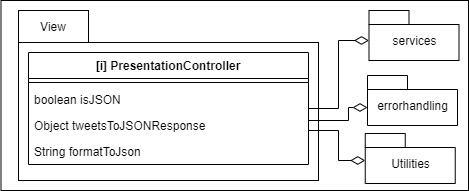
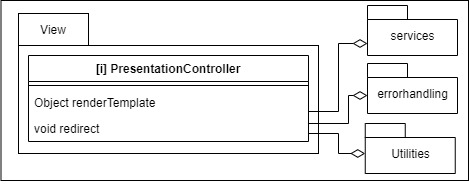
Update on Overleaf.

diff --git a/report/2-process-perspective.tex b/report/2-process-perspective.tex
@@ -1,40 +1,34 @@
 \section{Process's perspective} \label{section:Process perspective}
-\todo{Also reflect and describe what was the "DevOps" style of your work. For example, what did you do differently to previous development projects and how did it work?}
+%\todo{Also reflect and describe what was the "DevOps" style of your work. For example, what did you do differently to previous development projects and how did it work?}
 
 \subsection{Interactions and organization of developer team} 
-The developer team stays in contact through a Microsoft Teams with regular meetings every Monday and usually one or two additional "stand up" type meetings throughout the week to check in on progress. Microsoft Teams is also used for links and resources as well as communication regarding individual tasks.
-
-Major issues are typically done with everyone present, if they require important decisions, otherwise work is usually done individually or in groups of two or three people - depending on the complexity of the task ahead.
+The team used Microsoft Teams for communication with regular meetings every Monday and usually one or two additional "stand up" type meetings throughout the week to check in on progress. Microsoft Teams is also used for links and resources as well as communication regarding individual tasks. Major issues are typically done with everyone present, if they require important decisions, otherwise work is usually done individually or in groups of two or three people - depending on the complexity of the task at hand.
 
 \subsection{CI/CD chain} 
-For CI, we initially attempted to use TravisCI, as everyone in the group had encountered it. TravisCI was abandoned due to an overwhelming number of issues with files and folders not being added properly, in addition to secret handling being bothersome.
-
-We instead settled for using GitHub Actions, which had all the features we wanted (triggers, stages, customizable images and non-local storage of secrets).
+The initial CI/CD was set up using TravisCI, as everyone in the team had encountered it during the lectures. TravisCI was abandoned due to an overwhelming number of issues with files and folders not being added properly, in addition to secret handling being bothersome. We instead settled for using GitHub Actions, which had all the features we wanted (triggers, stages, customizable images and non-local storage of secrets).
 
 The following workflows are set up:
 \begin{itemize}
-    \item \textbf{Java CI with Maven}: Invoked on all pushes to the repository. It builds the Maven project using $mvn package$ and runs all tests, including integration tests on a remote test database. The workflow utilizes caching to ensure that Maven dependencies are not fetched on consecutive runs. 
-    \item \textbf{Staging deployment}: Invoked on all pushes to the main branch. This workflow logs into DockerHub, builds and pushes the Minitwit docker image with database secrets. Afterwards it SSHs to the primary Minitwit server and fetches the Minitwit config files, including the docker-compose file. Immediately after all containers are torn down and rebuild using the newly pushed Minitwit image from DockerHub. Finally, a release is created with new commits linked and the backup server is redeployed similarly. In the downtime of the primary server the backup server obtains the floating IP and vice versa. 
-    \item \textbf{Backup DB}: Once a day GitHub action SSH into the primary server and creates a database dump with time and date in the name. Created to minimize potential data loss.
-    \item \textbf{Build LaTeX document}: When a push to develop occurs, the LaTeX files are fetched from the report folder and a pdf document is built. The LaTeX files are manually fetched from a remote Overleaf repository, as Overleaf facilitates the groups collaborative writing. 
+    \item \textbf{Java CI with Maven}: Invoked on all pushes to the repository. It builds the Maven project using $mvn\_package$ and runs all tests, including integration tests on a remote test database. The workflow utilizes caching to ensure that Maven dependencies are not fetched on consecutive runs. 
+    \item \textbf{Staging deployment}: Invoked on all pushes to the main branch. This workflow logs into DockerHub, builds and pushes the Minitwit docker image with database secrets. Afterwards it SSHs into the primary Minitwit server and fetches the Minitwit config files, including the docker-compose file. Immediately after, all containers are torn down and rebuild using the newly pushed Minitwit image from DockerHub. Finally, a release is created with new commits linked and the backup server is redeployed similarly. In the downtime of the primary server, the backup server obtains the floating IP and vice versa. 
+    \item \textbf{Backup DB}: Once a day a GitHub action SSH into the primary server and creates a database dump with time and date in the name. Created to minimize potential data loss.
+    \item \textbf{Build LaTeX document}: When a push to develop occurs, the LaTeX files are fetched from the report folder and a pdf document is built. The LaTeX files are manually fetched from a remote Overleaf repository, as Overleaf facilitates the teams collaborative writing. 
     \item \textbf{SonarCloud}: Official SonarCloud GitHub action that builds and analyzes the Java project using \textit{mvn\_verify}. 
 \end{itemize}
-For secret handling we used Githubs Encrypted secrets. This ensured that no potentially harmful information was exposed in the GitHub Action workflows. Among secrets were DB connection strings, DigitalOcean access tokens, DockerHub credentials and SSH keys together with host information.
+For secret handling we used GitHub's Encrypted secrets. This ensured that no potentially harmful information was exposed in the GitHub Action workflows. Among secrets were DB connection strings, DigitalOcean access tokens, DockerHub credentials and SSH keys together with host information\footnote{\url{https://github.com/DevOps2021-gb/devops2021/wiki/CI-CD-Description:--Github-Actions}}.
 
 
 \subsection{Organization of repository}
-The code is organized using a mono repository setup, having all code and scripts necessary to run the application gathered in a single repository. The team deemed this sufficient as everything located in the repository (apart from local dockerfiles and simulator) is involved in the deployment process and the code-base is small and simple enough that having multiple repositories would only increase complexity. 
+The code is organized using a mono repository setup, having all code and scripts necessary to run the application gathered in a single repository. The team deemed this sufficient as everything located in the repository (apart from local dockerfiles and simulator) is involved in the deployment process and the code-base is small and simple enough that having multiple repositories would only introduce unnecessary complexity
 
 \subsection{Applied branching strategy and development process} 
-The main branch is used for the latest release, meaning that the code on this branch matches code found in production.
+The main branch is used for the latest release, meaning that the code on this branch matches code found in production. The develop branch facilitated the main development of the project and should always contain a working build. From develop each team member could create feature branches (\texttt{feature/logging} for example) and then merge back into develop once tested and approved. Develop could be subject to hotfixes, which would then be merged into main. The full process can be seen in \underline{\href{https://github.com/DevOps2021-gb/devops2021/blob/main/CONTRIBUTE.md}{CONTRIBUTE.md}}.
 
-The develop branch facilitated the main development of the project and should always contain a working build. From develop each group member could create feature branches (\texttt{feature/logging} for example) and then merge back into develop once tested and approved. Develop could be subject to hotfixes, which would then be merged into main. The full process can be seen in \underline{\href{https://github.com/DevOps2021-gb/devops2021/blob/main/CONTRIBUTE.md}{CONTRIBUTE.md}}.
-
-The group used GitHub issues to track development progress, labeling them as needed with tags such as \textit{bug}, \textit{documentation}, \textit{feature} and \textit{enhancement}. The status of each issue and the issues to focus on each week was tracked using GitHub's kanban board, having columns \textit{Todo}, \textit{This sprint}, \textit{In progress} and \textit{Done}.
+The team used GitHub issues to track development progress, labeling them as needed with tags such as \textit{bug}, \textit{documentation}, \textit{feature} and \textit{enhancement}. The status of each issue and the issues to focus on each week was tracked using GitHub's kanban board, having columns \textit{Todo}, \textit{This sprint}, \textit{In progress} and \textit{Done}.
 
 \subsection{Monitoring} 
 \label{subsection:monitoring}
-Monitoring is set up using Prometheus and Grafana, where Prometheus is used to subtract data from the system, at the data is displayed on dashboards in Grafana.
+Monitoring is set up using Prometheus and Grafana, where Prometheus is used to extract data from the system, and the data is displayed on dashboards in Grafana.
 
 The newest data points are collected and stored using \texttt{MaintenanceService.java}. Each data type is stored in Prometheus library's Gauge or Counter objects, which is registered with a unique name and help description. Data gathered is: the current CPU load, database information and response-time of each endpoint. The data is collected with an interval of 30 seconds. The configuration of Prometheus is found in \texttt{prometheus.yml}\footnote{\url{https://github.com/DevOps2021-gb/devops2021/blob/main/prometheus.yml}}.
 
@@ -48,7 +42,7 @@ On \textit{Grafana} are three dashboards:
         \label{fig:grafana_db}
     \end{figure}
     
-    \item \textbf{Minitwit request}\footnote{\url{http://144.126.244.138:3000/dashboard/db/minitwit-requests?orgId=1}} shows response times for requests to the system.
+    \item \textbf{Minitwit request} shows response times for requests to the system.
     \begin{figure}[H]
         \centering
         \includegraphics[width=1.0\textwidth]{images/Grafana_minitwit_requests.JPG}
@@ -56,7 +50,7 @@ On \textit{Grafana} are three dashboards:
         \label{fig:grafana_requests}
     \end{figure}
     
-    \item \textbf{Prometheus Stats}\footnote{\url{http://144.126.244.138:3000/dashboard/db/prometheus-stats?orgId=1}} shows the uptime of the system. The time is reset when the system is redeployed or if it goes down.
+    \item \textbf{Prometheus Stats} shows the system uptime.
     \begin{figure}[H]
         \centering
         \includegraphics[width=1.0\textwidth]{images/Grafana_prometheous_stats.JPG}
@@ -68,29 +62,27 @@ The graphs in the dashboards show minimum, maximum and average of the plotted da
 
 \subsection{Logging}
 \label{subsection:logging}
-Logging is set up as an EFK stack. Initially only exceptions were logged but during a test of the logging only one of three introduced bugs was detected, implying that the logging was insufficient. More detailed logging was introduced, now also logging requests and their payloads with the exception of passwords \todo{hashes eller rigtige?} which was removed. This change made all three kinds of bug show up in the log. The description of the experiment can be found in the wiki entry \underline{\href{https://github.com/DevOps2021-gb/devops2021/wiki/Catch-a-Bug-By-Looking-at-the-Logs}{Catch a Bug By Looking at the Logs}}.
+Logging is set up as an EFK stack. Initially only exceptions were logged but during a test of the logging only one of three introduced bugs was detected, implying that the logging was insufficient. More detailed logging was introduced, now also logging requests and their payloads - except plaintext passwords, which were removed. This change made all three kinds of bugs show up in the log. The description of the experiment can be found in the wiki entry \underline{\href{https://github.com/DevOps2021-gb/devops2021/wiki/Catch-a-Bug-By-Looking-at-the-Logs}{Catch a Bug By Looking at the Logs}}.
 
-Logging is done using Java's Logger object and through our helper-functions each print is extended with a classification/level. The print statements also get a code to easier filter actual warnings rather than messages containing the word 'warning'. The class printing is also added to the message for traceability
+Logging is done using Java's Logger object and through our helper-functions each print is extended with a classification/level. The print statements also get a code to easier filter actual warnings rather than messages containing the word 'warning'. The class printing is also added to the message for traceability.
 
-These measures allowed us to create filters for Grafana dashboards such that we could see all messages, all warnings and all of the different kinds of exceptions that could be thrown. 
-\todo{log volumes, traces, exceptions}
+These measures allowed us to create filters for Kibana dashboards such that we could see all messages, all warnings and all of the different kinds of exceptions that could be thrown. A filebeat-elasticsearch index is created once a day for logs and are persistent through Docker volumes. 
 
 
 \subsection{Security assessment}
-In order to assess the security of the system two tasks were undertaken. A risk assessment was conducted and penetration testing was performed.
-
-For risk assessment three assets to protect was identified: the web application, the database and the logging. The following potential threats were assessed:
+In order to assess the security of the system two tasks were undertaken. A risk assessment was conducted and penetration testing was performed. For risk assessment three assets to protect was identified: the web application, the database and the logging. The following potential threats were assessed:
 \begin{itemize}
     \item Web application: SQL injection, cross site scripting, DOS, brute forcing login and insufficient logging and monitoring.
     \item Database: SQL injection through web application/API and lost authentication secrets.
     \item Logging: DOS attacks, brute forcing login page.
 \end{itemize}
 
-A risk analysis table was constructed and 11 scenarios and seven issues were identified and graded. For most of the scenarios actions had already been taken to prevent or mitigate the risks. For a few other scenarios possible actions were identified but not taken as they were not deemed necessary. The full details of the risks assessment can be found under \underline{\href{https://github.com/DevOps2021-gb/devops2021/wiki/Risk-assesment}{Risk Assessment}}.
+\noindent
+A risk analysis table was constructed and 11 scenarios and seven issues were identified and graded. For most of the scenarios actions had already been taken to prevent or mitigate the risks. For a few other scenarios possible actions were identified but not taken as they were deemed unnecessary. The full details of the risks assessment can be found under \underline{\href{https://github.com/DevOps2021-gb/devops2021/wiki/Risk-assesment}{Risk Assessment}}.
 
-For the penetration testing three tools were used: \textit{nmap}, \textit{Metasploit} and \textit{SQL map}. In each case no vulnerabilities were found. In addition to using \textit{SQL map} cross-site scripting was also tested manually in multiple browsers by trying to use script-tags in the message input field on the website. In all tested browsers the script tag was not rendered. Lastly, it was checked that traces of the tools run showed up in the logging. The full details of the penetration test can be seen in \underline{\href{https://github.com/DevOps2021-gb/devops2021/wiki/Penetration-testing}{Penetration testing}}.
+For the penetration testing three tools were used: \textit{nmap}, \textit{Metasploit} and \textit{SQL map}. In each case no vulnerabilities were found. In addition to using \textit{SQL map}, cross-site scripting was also tested manually in multiple browsers, by trying to use script-tags in the message input field on the website. In all tested browsers the script tag was not rendered. Lastly, we checked that traces of the tools used showed up in the logging. The full details of the penetration test can be seen in \underline{\href{https://github.com/DevOps2021-gb/devops2021/wiki/Penetration-testing}{Penetration testing}}.
 
 Another group was supposed to perform a white hat attack on the system. Nothing was heard from the group and it must be assumed that they found nothing to report.% or tested another group by mistake.
 
 \subsection{Scaling and load balancing}\label{subsection:scaling} 
-The group first implemented the traditional Heartbeat with Floating IPs on DigitalOcean \footnote{\url{https://www.digitalocean.com/community/tutorials/how-to-create-a-high-availability-setup-with-heartbeat-and-floating-ips-on-ubuntu-16-04}}. Unfortunately this would only ensure that floating IP were switched to the backup and back when the entire machine would go down. We did not find a configuration of Heartbeat that would allow us to listen on a specific port, and switch floating IP's when the Minitwit service was down. We therefore decided to write two shell scripts to gain the sought after functionality. The first script\footnote{\url{https://github.com/DevOps2021-gb/devops2021/tree/main/heartbeat}} continuously runs on the secondary droplet checking the availability of the primary droplet, reassigning the floating-ip to itself should the application on the primary droplet go down. The second script would run on the primary droplet to reassign the floating IP to itself when it has restarted.
+The team chose to implement a high-availability setup in terms of a primary and a secondary droplet. First the traditional Heartbeat with Floating IPs on DigitalOcean was implemented\footnote{\url{https://www.digitalocean.com/community/tutorials/how-to-create-a-high-availability-setup-with-heartbeat-and-floating-ips-on-ubuntu-16-04}}. Unfortunately this would only ensure that floating IP were switched to the backup and back again, when the entire machine would go down. We did not find a configuration of Heartbeat that would allow us to listen on a specific port, and switch floating IP's when the Minitwit service was down. We therefore decided to write two shell scripts to gain the sought after functionality. The first script\footnote{\url{https://github.com/DevOps2021-gb/devops2021/tree/main/heartbeat}} continuously runs on the secondary droplet checking the availability of the primary droplet, reassigning the floating-ip to itself should the application on the primary droplet go down. The second script would run on the primary droplet to reassign the floating IP to itself when it has restarted.

diff --git a/report/1-systems-perspective.tex b/report/1-systems-perspective.tex
@@ -1,38 +1,42 @@
 \section{System's perspective} \label{section:System perspective}
-\todo{gå igennem alle ugers "afleveringer" og tjek vi har argumenteret for alt}
 \subsection{Design}
 The Minitwit application is a simple application allowing users to post messages, see messages posted by others and follow other users in order to specifically see what they post.
 
-The application is implemented using Java with Spark and a MySQL database. Java was chosen since it is platform independent and a popular language, meaning that extensive documentation is available and it would be easy for a future team to inherit the code. Spark was chosen as it is similar to Flask which was used for the inherited Minitwit system and since it has a reasonable learning curve and is straight forward to use for an application of the size of Minitwit. The frontend consist of html templates connected with the backend using the template engine Jinjava, chosen to mimic the python Minitwit with minimal effort. 
+The application is implemented in Java with the Spark Framework and a MySQL database. Java was chosen since it is platform independent and a popular language, meaning that extensive documentation is available and it would be easy for a future team to inherit the code. Spark was chosen as it is a lightweight framework like Flask, which was used for the inherited Minitwit system. Spark also has a reasonable learning curve and is straight forward to use for an application the size of Minitwit. The frontend consist of HTML templates connected to the backend using the template engine Jinjava, chosen to mimic the python Minitwit with little to no changes. 
 
-MySQL was chosen for database since the relational model fits the system data well. \textcolor{red}{Why is it better than eg SQLite?}. \todo{Indexes?}\todo{Skal vi have design af db tables? eventuelt som et billede/screenshot? Ja det ville være godt med en kort beskrivelse af tables og model}
-
-The ORM tool used is NORM, which is a lightweight ORM that does not require the complex markdown files that tools like Hibernate or JPA introduce. It is suitable for smaller projects with simple models and therefore for Minitwit.
-
-Hibernate was implemented as a test to see if it would be a better fit since it is more complex but it turned out that the tool did not deliver on its promises, meaning that it only introduced more unnecessary complexity without adding any benefits. It furthermore complicated database joins that are needed for Minitwit. We decided to stick with NORM.
-
-The application is hosted on DigitalOcean. Measures taken to ensure availability and for maintenance purposes, monitoring with Prometheus and Grafana and logging using an ELK-stack, are described in further sections.
-
-
-\subsection{Architecture}
-
-\hyperref[fig:componentDiagram]{Figure \ref{fig:componentDiagram}} shows the different components of the application.
-
-\todo{TODO: MISSING TEXT ON EACH CONNECTOR.}
+MySQL was chosen for persistent data storage due to its high performance, wide adoption rate, indices and familiarity to the team. Furthermore, the relational model fits the Minitwit data well and \hyperref[fig:classDiagramModel]{figure \ref{fig:databaseDiagram}} depicts the design of the database.
 \begin{figure}[H]
     \centering
-    \hspace*{-0.5in}
-    \includegraphics[width=1.2\textwidth]{images/Diagrams-Development_view_component_diagram.jpg}
-    \caption{Component diagram, development view}
+    \includegraphics[width=1\textwidth]{report/images/Diagrams-DB.png}
+    \caption{Entity relation diagram and diagram of model presenting the design of the database tables.}
+    \label{fig:databaseDiagram}
+\end{figure} 
+\vspace{3mm}
+
+\noindent
+The ORM tool used is NORM, which is a lightweight ORM that does not require the complex markdown files that tools like Hibernate or JPA introduce. It is suitable for smaller projects with simple models and therefore fulfills the requirements of the Minitwit application. As an ORM tool NORM is not perfect as some queries still requires writing sql, like when joining or adding indexes.
+
+Hibernate was implemented on branch feature/Hibernate\footnote{\url{https://github.com/DevOps2021-gb/devops2021/tree/feature/Hibernate}} as a test to see if it would be a better fit. Unfortunately, it turned out that the tool did not deliver on its promises and actually did not support some union queries, meaning that it only introduced more unnecessary complexity without adding any benefits. Furthermore, it complicated database joins which are needed for Minitwit. We therefore decided to stick with NORM.
+
+The application is hosted on DigitalOcean. Measures taken to ensure availability and maintenance, monitoring with Prometheus and Grafana and logging using an EFK-stack, are described later.
+
+\newpage
+\subsection{Architecture}
+
+\hyperref[fig:componentDiagram]{Figure \ref{fig:componentDiagram}} shows the different components of the application and how they are connected.
+\begin{figure}[H]
+    \centering
+    \includegraphics[width=1\textwidth]{images/Diagrams-Development_view_component_diagram.jpg}
+    \caption{Component diagram of the entire Minitwit application, development view}
     \label{fig:componentDiagram}
 \end{figure}
 
 \subsubsection{Main}
-Main is the system's entrance point and allows specification of which database to use. Main starts monitoring and logging services and defines the number of threads to use. \hyperref[fig:classDiagramMain]{Figure \ref{fig:classDiagramMain}} presents a class diagram. \todo{stemmer det her diagram overens med connectorne i figur 1 egentlig?}
+Main is the system entry point and allows specification of which database to use. Main starts monitoring and logging services and defines the number of threads to use. \hyperref[fig:classDiagramMain]{Figure \ref{fig:classDiagramMain}} presents a class diagram. 
 \begin{figure}[H]
     \centering
-    \includegraphics[width=0.7\textwidth]{images/class_diagram_main.jpg}
-    \caption{Class diagram main, logical view}
+    \includegraphics[width=0.5\textwidth]{images/class_diagram_main.jpg}
+    \caption{Class diagram for main, logical view}
     \label{fig:classDiagramMain}
 \end{figure}
 
@@ -44,32 +48,31 @@ Utilities, shown in \hyperref[fig:classDiagramUtilities]{figure \ref{fig:classDi
     \caption{Class diagram utilities, logical view}
     \label{fig:classDiagramUtilities}
 \end{figure}
-\todo{Eventuelt flyt de tre sidste klasser ned på en ny linje, så billedet kan gøres bredere = teksten nemmere at læse}
 
 \subsubsection{Error handling}
 Error handling contains objects used to wrap results of computations that can result in exceptions, allowing for better error handling and reduction of try-catch-statements. A class diagram is presented in  \hyperref[fig:classDiagramErrorhandling]{figure \ref{fig:classDiagramErrorhandling}}.
 \begin{figure}[H]
     \centering
-    \includegraphics[width=1.0\textwidth]{images/class_diagram_errorhandling.jpg}
-    \caption{Class diagram errorhandling, logical view}
+    \includegraphics[width=0.8\textwidth]{images/class_diagram_errorhandling.jpg}
+    \caption{Class diagram for Error handling, logical view}
     \label{fig:classDiagramErrorhandling}
 \end{figure}
 
 \subsubsection{Controllers}
-Controllers handles the endpoints the application provides by mapping post and get request to appropriate methods. The class diagram can be seen in \hyperref[fig:classDiagramControllers]{figure \ref{fig:classDiagramControllers}}.
+Controllers handles the API endpoints the application provides by mapping post and get request to appropriate methods. The class diagram can be seen in \hyperref[fig:classDiagramControllers]{figure \ref{fig:classDiagramControllers}}.
 \begin{figure}[H]
     \centering
     \includegraphics[width=1.0\textwidth]{images/class_diagram_controllers.jpg}
-    \caption{Class diagram controllers, logical view}
+    \caption{Class diagram for controllers, logical view}
     \label{fig:classDiagramControllers}
 \end{figure}
 
 \subsubsection{View}
-View contains code for rendering and redirecting between pages of Minitwit. Pages are rendered html-templates. The class diagram can be seen in \hyperref[fig:classDiagramView]{figure \ref{fig:classDiagramView}}.\todo{Er det her ikke de forkerte metoder i diagrammet? Skal det ikke være renderTemplate og redirect?}
+View contains code for rendering and redirecting between pages of Minitwit. Pages are rendered html-templates. The class diagram can be seen in \hyperref[fig:classDiagramView]{figure \ref{fig:classDiagramView}}.
 \begin{figure}[H]
     \centering
-    \includegraphics[width=0.8\textwidth]{images/class_diagram_view.jpg}
-    \caption{Class diagram view, logical view}
+    \includegraphics[width=0.6\textwidth]{images/class_diagram_view.jpg}
+    \caption{Class diagram for View, logical view}
     \label{fig:classDiagramView}
 \end{figure}
 
@@ -79,8 +82,8 @@ Services includes functions executing requests and responses along with code for
 Class diagram presented in \hyperref[fig:classDiagramServices]{figure \ref{fig:classDiagramServices}}.
  \begin{figure}[H]
     \centering
-    \hspace*{-1.5in}
-    \includegraphics[width=1.6\textwidth]{images/class_diagram_services.jpg}
+    \hspace*{-1.1in}
+    \includegraphics[width=1.35\textwidth]{images/class_diagram_services.jpg}
     \caption{Class diagram services, logical view}
     \label{fig:classDiagramServices}
 \end{figure}
@@ -89,23 +92,23 @@ Class diagram presented in \hyperref[fig:classDiagramServices]{figure \ref{fig:c
 Repository includes code for starting the database and executing queries needed by the services. Class diagram can be seen in \hyperref[fig:classDiagramRepository]{figure \ref{fig:classDiagramRepository}}.
 \begin{figure}[H]
     \centering
-    \hspace*{-1.3in}
-    \includegraphics[width=1.55\textwidth]{images/class_diagram_repository.jpg}
+    \hspace*{-0.5in}
+    \includegraphics[scale=0.4]{images/class_diagram_repository.jpg}
     \caption{Class diagram repositories, logical view}
     \label{fig:classDiagramRepository}
 \end{figure}
 
 \subsubsection{Model}
-Model contains classes used by NORM as templates for creating database entities. Class diagram can be seen in \hyperref[fig:classDiagramModel]{figure \ref{fig:classDiagramModel}}.\todo{forkert diagram}
+Model contains classes used by NORM as templates for creating database entities. Class diagram can be seen in \hyperref[fig:classDiagramModel]{figure \ref{fig:classDiagramModel}}.
 \begin{figure}[H]
     \centering
-    \includegraphics[width=0.7\textwidth]{images/class_diagram_model.jpg}
-    \caption{Class diagram model, logical view}
+    \includegraphics[scale=0.5]{images/class_diagram_model.jpg}
+    \caption{On the left is a class diagram for Model, logical view. On the right is an entity relationship diagram.}
     \label{fig:classDiagramModel}
 \end{figure}
 
 \subsubsection{Benchmark}
-Benchmark is not in deployment and contains code to be run locally only. It is used for measuring the speed of different repository operations and was used to argue for speedups related to extensions to the database, e.g. when indexes was added.
+Benchmark is not in deployment and contains code to be run locally only. It is used for measuring the speed of different repository operations and was used to argue for speedups related to extensions to the database, e.g. when indices was added.
 
 
 \subsection{Dependencies }
@@ -117,7 +120,7 @@ Benchmark is not in deployment and contains code to be run locally only. It is u
     \item \textbf{MySQL}: Relational database.% Chosen based on familiarity to team members and it's renowned reliability for how long it's been around.  
     \item \textbf{JUnit 5}: Most popular unit-testing framework.
     \item \textbf{Mockito}: Mocking framework with a simple API.
-    \item \textbf{SLF4J}: Logging Facade for ELK stack. 
+    \item \textbf{SLF4J}: Logging Facade for EFK stack. 
     \item \textbf{prometheus}: Prometheus JVM Client for introducing instrumenting such as gauges, counters and other metrics.
     \item \textbf{org.json}: Toolkit for JSON.
 \end{itemize}
@@ -125,36 +128,34 @@ Benchmark is not in deployment and contains code to be run locally only. It is u
 \begin{itemize}
     \item \textbf{Maven}: Build automation tool used to manage Java project and its dependencies.
     \item \textbf{PMD}: Code analyzer, used to find common programming flaws like unused variables, unnecessary object creation etc. 
-    \item \textbf{Forbidden API Checker}: Static code analysis that parses java byte code to find invocations of dangerous and deprecated method/class/fields signatures. 
+    \item \textbf{Forbidden API Checker}: Static code analysis that parses java byte code to find invocations of dangerous and deprecated method/class/field signatures. 
     \item \textbf{SonarCloud}: Bug, Vulnerability and Code Smell detection tool with issue contextualization and remediation guidance. Used in our CI for Continuous code inspection.\footnote{\url{https://github.com/DevOps2021-gb/devops2021/wiki/Static-Analysis-Tools}}
 \end{itemize}
 
-\url{www.licensediscovery.io} was used to analyze Maven dependency licenses. As seen in figure \ref{fig:licenceDep} the strictest license that the majority of dependencies is ruled by is the Apache Software License Version 2. This is the license that we therefore went with.\footnote{\url{https://github.com/DevOps2021-gb/devops2021/blob/main/LICENSE.md}} 
-\todo{Er det begrundelse nok? \textcolor{yellow}{kan ikke komme på mere at sige om det i hvert fald}}
-\begin{figure}[!htb]
+\subsection{License}
+\url{www.licensediscovery.io} was used to analyze Maven dependency licenses. As seen in figure \ref{fig:licenceDep} the strictest license that the majority of dependencies are ruled by is the Apache Software License Version 2. This is the license that we therefore went with.\footnote{\url{https://github.com/DevOps2021-gb/devops2021/blob/main/LICENSE.md}}
+\begin{figure}[H]
     \centering
-    \includegraphics[scale=0.2]{images/LicenceDependencies.png}
+    \includegraphics[scale=0.65]{report/images/dependency_licences.png}
     \caption{Overview of dependency licenses. Sub-dependencies included.}
     \label{fig:licenceDep}
 \end{figure}
-\todo{ryk billede i bilag eller til repository, det er umuligt at se hvad der står}
-
 \subsection{Important interactions of subsystem}
 \hyperref[fig:componentDiagram]{Figure \ref{fig:communicationDiagram}} shows the interaction between different parts of the system and between users and system.
 
 Code is stored on GitHub, which developers pull and push to during development. When running the code locally, a local database should be used, called \texttt{minitwit}, which runs on port 3306 localhost with password and username "root". The repository contains a docker compose file for running the Minitwit stack locally which includes an empty MySQL database container.
 
-GitHub actions analyzes the files pushed using SonarCloud. GitHub Actions deploys to a docker image and pulls down official Prometheus, Grafana, Filebeat, ElasticSearch, Kibana and Nginx images.
+GitHub actions analyze the files pushed using SonarCloud. GitHub Actions deploys to a docker image and pulls down official Prometheus, Grafana, Filebeat, ElasticSearch, Kibana and Nginx images.
 
-The images are all deployed on two DigitalOcean droplets, where the Minitwit containers utilize a remote DigitalOcean database. One droplet is the primary server and uses a floating IP. The other droplet is regarded as a backup and regularly checks through http whether the Minitwit service is responding successfully. If not, the backup droplet obtains the floating IP until the primary is responding as expected.\todo{skal vi have deployment diagram????}
+The images are all deployed on two DigitalOcean droplets, where the Minitwit containers utilize a remote DigitalOcean database. One droplet is the primary server and uses a floating IP. The other droplet is regarded as a backup and regularly checks through http whether the Minitwit service is responding successfully. If not, the backup droplet obtains the floating IP until the primary is responding as expected. 
 
-The Kibana and Grafana images are for viewing maintenance and logging and the remaining four are for the ELK logging stack.
+The Kibana and Grafana images are for viewing monitoring and logging and the remaining four are for the EFK logging stack.
 
 \begin{figure}[H]
     \centering
-    \hspace*{-1.5in}
-    \includegraphics[width=1.6\textwidth]{images/Diagrams-Process_view_communication_diagram.jpg}
-    \caption{Communication diagram, process view}
+    \hspace*{-0.7in}
+    \includegraphics[scale=0.3]{images/Diagrams-Physical_view_deployment_diagram.jpg}
+    \caption{Deployment diagram, physical view}
     \label{fig:communicationDiagram}
 \end{figure}
 
@@ -168,4 +169,4 @@ The system currently has a single known bug regarding the scaling of the system,
     \item 0.0\% code duplication and 0 duplicated blocks
 \end{itemize}
 
-Out of the 63 code smells only 11 are major, critical or blockers and all 63 has been assessed as issues that can ignored.
+Out of the 63 code smells only 11 are major, critical or blockers and all 63 has been assessed as issues that can be ignored.

diff --git a/report/3-lessons-learned.tex b/report/3-lessons-learned.tex
@@ -1,19 +1,30 @@
 \section{Lessons learned perspective} \label{section:Lessons learned perspective}
 \subsection{Issues: evolution and refactoring}
 Initially, the inherited code was translated to a basic Java application using the Java Spark framework\footnote{\url{https://github.com/DevOps2021-gb/devops2021/issues/152}}. At the time, this code was very bare-bones with all logic and endpoints located in a single file. As time went on, the team refactored the application to make use of a more well structured system architecture (controller-, service-, persistance-layer)\footnote{\url{https://github.com/DevOps2021-gb/devops2021/tree/ae6cd48a06fde2a5c403056b33895b7589cb039d}} eventually adding dependency injection and mock testing\footnote{\url{https://github.com/DevOps2021-gb/devops2021/commit/07914442a09e204f0be2687fe8e5b9bd07799ee4}} to the application. 
-During development one of the endpoint's response codes was changed which led to a massive increase in errors the simulator reported, which could have been avoided if a fraction of the provided \texttt{minitwit\_simulator.py} file had been a part of the test pipeline.
+During development one of the endpoint's response code was changed which led to a massive increase in errors the simulator reported, which could have been avoided if a fraction of the provided \texttt{minitwit\_simulator.py} file had been a part of the test pipeline.
 
 \subsection{Issues: operation}
 \label{issues-operation}
-The self-made heartbeat protocol had some issues related to Spark. An issue\footnote{\url{https://github.com/DevOps2021-gb/devops2021/issues/171}} was created trying to remedy this but was never finished, rendering the availability part of the system unstable as the backup would perceive the primary to be down and then reassign the floating-ip to itself exposing a single point of failure. The issue is likely related to Spark's session handling.\\
+The self-made heartbeat protocol had some issues related to Spark. An issue\footnote{\url{https://github.com/DevOps2021-gb/devops2021/issues/171}} was created trying to remedy this but was never finished, rendering the availability part of the system unstable as the backup would perceive the primary to be down and then reassign the floating-ip to itself exposing a single point of failure. The issue is likely related to Spark's session handling. These scripts can be found in the repository\footnote{\url{https://github.com/DevOps2021-gb/devops2021/tree/main/heartbeat}}
 
-Early on in the project the database was deployed together with the Minitwit application using Vagrant. Due to SSH key mismanagement, we lost access to our vagrant deployed DigitalOcean Minitwit server containing simulator generated data. Luckily, we were able to reset the root user through Digital Ocean's web terminal functionality. Through this terminal we could add SSH public keys to the \textit{authorized\_keys} file. Finally, we could then SSH into the server and get a database dump. This database dump was based on an outdated model with no ORM, so we had to alter the tables before transferring it to the new remote database server. Only a minor amount of data was lost during the data transfer. To minimize data loss in the future we created a backup GitHub Action that made a database backup once a day. In addition, SSH keys for the server were backed up in a keystore.
+Early on in the project, the database was deployed together with the Minitwit application using Vagrant. Due to SSH key mismanagement, we lost access to our vagrant deployed DigitalOcean Minitwit server containing simulator generated data. Luckily, we were able to reset the root user through Digital Ocean's web terminal functionality. Through this terminal we could add SSH public keys to the \textit{authorized\_keys} file. Finally, we could then SSH into the server and get a database dump. This database dump was based on an outdated model with no ORM, so we had to alter the tables before transferring it to the new remote database server. Only a minor amount of data was lost during the data transfer. To minimize data loss in the future, we created a backup GitHub Action that made a database backup once a day. In addition, SSH keys for the server were backed up in a keystore.
 
 On the 18th of March the webserver crashed due to SSL exceptions. After looking through Docker logs, we narrowed it down to an incompatibility between java-mysql-connector 8.0.15 and Java 11. The solution to this was to update java-mysql-connector 8.0.15 to 8.0.23 \footnote{\url{https://github.com/DevOps2021-gb/devops2021/issues/94}}.
-\todo{no automatic versioning - ved ikke om det er nemt specifikt for java 11}
 
 \subsection{Issues: maintenance}
 \label{issues-maintenance}
-The group never figured out how to make SonarCloud read the test coverage\footnote{\url{https://github.com/DevOps2021-gb/devops2021/issues/140}}, eventually scrapping the idea after spending much time trying to make it work. It should however be said that it is able to identify which test functions are proper test functions and that code coverage is obtainable through an IDE like IntelliJ.
+The team never figured out how to make SonarCloud read the test coverage\footnote{\url{https://github.com/DevOps2021-gb/devops2021/issues/140}}, eventually scrapping the idea after spending much time trying to make it work. It should, however, be said that it is able to identify which test functions are proper test functions and that code coverage is obtainable through an IDE like IntelliJ.
 
-Furthermore, the group tried to implement alert notifications on Grafana\footnote{\url{https://github.com/DevOps2021-gb/devops2021/issues/87}} in order to be notified of unexpected data from the monitoring but this was never successfully implemented.
+Furthermore, the team tried to implement alert notifications on Grafana\footnote{\url{https://github.com/DevOps2021-gb/devops2021/issues/87}} in order to be notified of unexpected data from the monitoring, but this was never successfully implemented.
+
+As the only manual part of the release process, the team had to rename the previous release from 'development release' to the correct tag/version. An issue\footnote{\url{https://github.com/DevOps2021-gb/devops2021/issues/170}} was created in an attempt to automate the entire release process and have an internal counter of the current version, but was never solved.
+
+\subsection{Reflection on DevOps style of work}
+The automatic and continuous deployment was very nice to work with since it made it possible for all team members to deploy code without understanding some complicated set of steps to go through. In earlier projects team members have experienced cases where only few group members knew how to deploy.
+
+The idea of having containers, which should enable all members to run the code regardless of tools and dependencies was nice, but the team experienced issues with this resulting in all members still not being able to run the application locally. The issues occurred after adding the EFK stack.
+
+Regarding the way of working together, structuring the repository and branching, this way was not new to any group members but the technique worked well. Some of the techniques group members had used were: making flow visible, limiting work in process, reducing batch/issue sizes and the different ways of eliminating waste in the value stream. In regards to the second way, mobilizing mix of experts and people needing the knowledge has been common practice, and requiring approval near source and experts was common practice. As this is a student project the third ways of creating high-trust culture came naturally.
+
+Adding tests to CI was effective as it removed assumptions and increased resilience of anything committed - and multiple times stopped broken code, which otherwise would have been approved. \\
+The logging and maintenance were helpful to provide feedback, allowing us to see the problems as they occurred.

diff --git a/report/main.tex b/report/main.tex
@@ -1,4 +1,5 @@
 \documentclass{article}
+\usepackage[a4paper, total={6in, 10in}]{geometry}
 \usepackage[utf8]{inputenc}
 \usepackage[english]{babel}
 \usepackage{graphicx}
@@ -69,6 +70,7 @@ Sif Amalie Rybjerg Kristensen, sikr@itu.dk\\
 \date{19/05/2021}
 
 \begin{document}
+
 \maketitle
 
 \newpage
@@ -81,18 +83,7 @@ Sif Amalie Rybjerg Kristensen, sikr@itu.dk\\
 
 
 \input{1-systems-perspective}
-\newpage
 \input{2-process-perspective}
-\newpage
 \input{3-lessons-learned}
 
-
-
-\begin{comment}
-    %https://tex.stackexchange.com/questions/277560/counting-characters-in-a-section-of-a-document?noredirect=1&lq=1
-    \quickwordcount{main}
-    \quickcharcount{main}
-    \todo{There are \thechar characters and approximately \theword spaces.
-    That makes approximately \the\numexpr\theword+\thechar\relax\ characters total.}
-\end{comment}
 \end{document}
